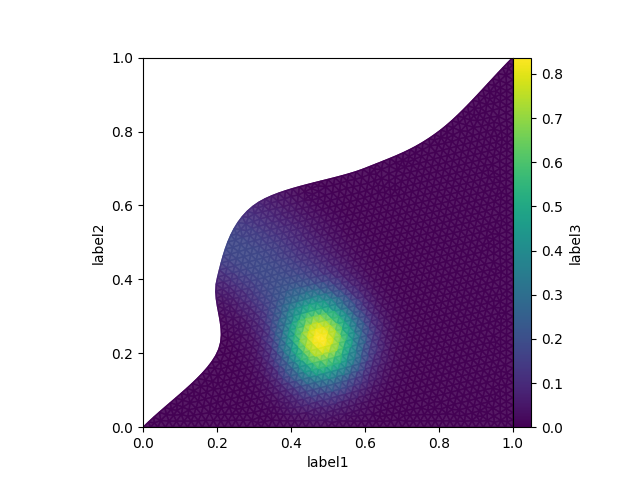
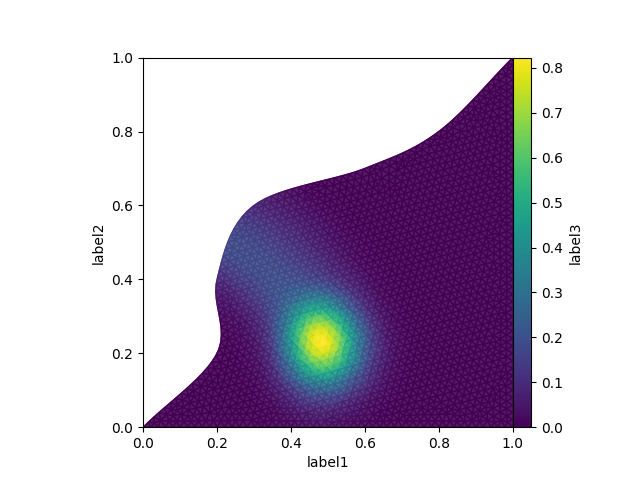
added getters to cells

diff --git a/solver_v3.py b/solver_v3.py
@@ -23,10 +23,9 @@ class Simulation():
     def genoil(self):
         ucopy = self._Oillist[-1].copy()
         for tri in self._msh.get_triangles():
-            # u_old = u[tri.id]
             u_old = ucopy[tri.id]
             u_old_ngh = ucopy[tri._neighbours_id]
-            F = sum([-self._dt / tri._area * g_arr(u_old, u_ngh, dot) for u_ngh, dot in zip(u_old_ngh, tri._dot)])
+            F = sum([-self._dt / tri.area * g_arr(u_old, u_ngh, dot) for u_ngh, dot in zip(u_old_ngh, tri.dot)])
             ucopy[tri.id] += F
         self._Oillist = np.vstack([self._Oillist, ucopy])
 

diff --git a/src/package/cellChild.py b/src/package/cellChild.py
@@ -84,3 +84,19 @@ class Triangle_cell(Cell):
         if isinstance(id, int):
             return self._neighbours_id
     """
+
+    @property
+    def neighbours_points(self):
+        return self._neighbours_points
+    
+    @property
+    def nuvectors(self):
+        return self._nuvectors
+    
+    @property
+    def v_avgs(self):
+        return self._v_avgs
+    
+    @property
+    def dot(self):
+        return self._dot

diff --git a/src/package/cellParant.py b/src/package/cellParant.py
@@ -6,6 +6,7 @@ class Cell:
         self._id = cell_id
         self._points = points
         self._midpoint = None
+        self._v = None
     
     # Compute the midpoint of the cell
     def find_midpoint(self, coords):
@@ -28,3 +29,7 @@ class Cell:
     @property
     def midpoint(self):
         return self._midpoint
+    
+    @property
+    def v(self):
+        return self._v

diff --git a/simulation_test.py b/simulation_test.py
@@ -3,6 +3,7 @@ from solver_v3 import Simulation
 testrun = Simulation("bay.msh")
 
 print("Startup done")
+
 testrun.runsim()
 print("Simulation done")
 testrun.photos(499)
